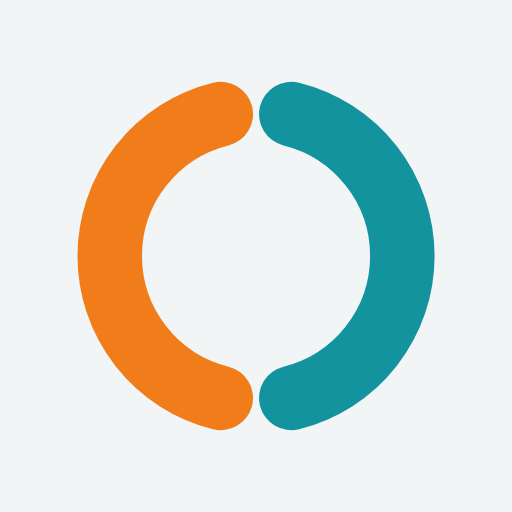
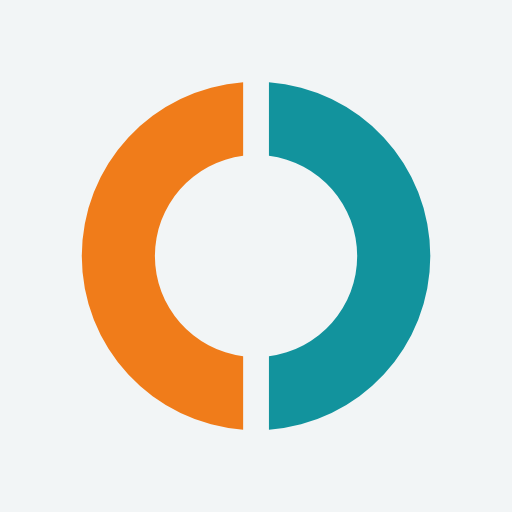
פידבק הבעלים (1–3): הלוגו האמיתי בכל האתר, השטח המת מתחת לטלפון, וכפתור המעבר הוסר מתוך הטלפון
- הלוגו: 26 מופעים בכל הדפים (כולל favicon, האייקונים ותמונת השיתוף) הוחלפו לגאומטריה של SplitOPainter
  מהאפליקציה — טבעת r=32, עובי 17, חתוכה בקו ישר ב-x=47/53 (קצוות שטוחים), במקום שתי קשתות עם קצוות מעוגלים.
- phone.css v7: כפתור המעבר והרמז יוצאים מהזרימה לפני "התחל הדגמה" (היו hidden אבל תפסו 170px), ונכנסים בפייד.
- demo.js v9: כפתור המעבר בין הממשקים הוסר משני הסרגלים העליונים — הוא כלי של הבעלים, לא חלק מהאפליקציה.
- אומת: שתי סדרות הבדיקה (0 שגיאות, 0 גלישות), מדידת הפריסה לפני/אחרי ההתחלה, אייקונים ותמונת שיתוף חדשים.

Changed region(s): [[0.125, 0.1562, 0.875, 0.8438]]

diff --git a/index.html b/index.html
@@ -25,7 +25,7 @@
   <link rel="preload" as="font" type="font/woff2" href="assets/fonts/fredoka-600-hebrew.woff2" crossorigin>
   <link rel="stylesheet" href="assets/fonts/fonts.css">
   <link rel="stylesheet" href="css/style.css?v=16">
-  <link rel="stylesheet" href="css/phone.css?v=6">
+  <link rel="stylesheet" href="css/phone.css?v=7">
   <link rel="canonical" href="https://fitopolis.co.il/">
 </head>
 <body>
@@ -97,7 +97,7 @@
 <header class="container topbar topbar-menu">
   <span class="logotype" aria-label="FITOPOLIS">
     <span class="fit">FIT</span>
-    <svg class="o-mark" viewBox="0 0 100 100" aria-hidden="true"><path d="M 41.8 17 A 34 34 0 0 0 41.8 83" fill="none" stroke="#F07C1A" stroke-width="14" stroke-linecap="round"/><path d="M 58.2 17 A 34 34 0 0 1 58.2 83" fill="none" stroke="#12939D" stroke-width="14" stroke-linecap="round"/></svg>
+    <svg class="o-mark" viewBox="0 0 100 100" aria-hidden="true"><path d="M47 9.61A40.5 40.5 0 0 0 47 90.39L47 73.31A23.5 23.5 0 0 1 47 26.69Z" fill="#F07C1A"/><path d="M53 9.61A40.5 40.5 0 0 1 53 90.39L53 73.31A23.5 23.5 0 0 0 53 26.69Z" fill="#12939D"/></svg>
     <span class="polis">POLIS</span>
   </span>
   <nav class="site-nav" aria-label="ניווט ראשי">
@@ -110,13 +110,13 @@
   <!-- ══ הפתיח ══ -->
   <section class="hero">
     <div class="ring-layer" data-depth="18" aria-hidden="true">
-      <span class="ring" style="left: 3%; top: -40px; transform: rotate(-14deg); opacity: 0.16;"><svg aria-hidden="true" class="drift-a" viewBox="0 0 100 100" style="width: 170px; height: 170px;"><path d="M 41.8 17 A 34 34 0 0 0 41.8 83" fill="none" stroke="#F07C1A" stroke-width="14" stroke-linecap="round"/><path d="M 58.2 17 A 34 34 0 0 1 58.2 83" fill="none" stroke="#12939D" stroke-width="14" stroke-linecap="round"/></svg></span>
+      <span class="ring" style="left: 3%; top: -40px; transform: rotate(-14deg); opacity: 0.16;"><svg aria-hidden="true" class="drift-a" viewBox="0 0 100 100" style="width: 170px; height: 170px;"><path d="M47 9.61A40.5 40.5 0 0 0 47 90.39L47 73.31A23.5 23.5 0 0 1 47 26.69Z" fill="#F07C1A"/><path d="M53 9.61A40.5 40.5 0 0 1 53 90.39L53 73.31A23.5 23.5 0 0 0 53 26.69Z" fill="#12939D"/></svg></span>
       <span class="blob drift-b" style="left: 44%; bottom: 30px; width: 54px; height: 54px; background: #F07C1A; opacity: 0.13;"></span>
       <span class="blob drift-c" style="left: 87%; top: 60px; width: 34px; height: 34px; background: #12939D; opacity: 0.15;"></span>
     </div>
     <div class="ring-layer" data-depth="40" aria-hidden="true">
-      <span class="ring" style="left: 38%; top: 90px; transform: rotate(22deg); opacity: 0.2;"><svg aria-hidden="true" class="drift-b" viewBox="0 0 100 100" style="width: 88px; height: 88px;"><path d="M 41.8 17 A 34 34 0 0 0 41.8 83" fill="none" stroke="#F07C1A" stroke-width="14" stroke-linecap="round"/><path d="M 58.2 17 A 34 34 0 0 1 58.2 83" fill="none" stroke="#12939D" stroke-width="14" stroke-linecap="round"/></svg></span>
-      <span class="ring" style="left: 82%; bottom: 70px; transform: rotate(-30deg); opacity: 0.18;"><svg aria-hidden="true" class="drift-c" viewBox="0 0 100 100" style="width: 64px; height: 64px;"><path d="M 41.8 17 A 34 34 0 0 0 41.8 83" fill="none" stroke="#F07C1A" stroke-width="14" stroke-linecap="round"/><path d="M 58.2 17 A 34 34 0 0 1 58.2 83" fill="none" stroke="#12939D" stroke-width="14" stroke-linecap="round"/></svg></span>
+      <span class="ring" style="left: 38%; top: 90px; transform: rotate(22deg); opacity: 0.2;"><svg aria-hidden="true" class="drift-b" viewBox="0 0 100 100" style="width: 88px; height: 88px;"><path d="M47 9.61A40.5 40.5 0 0 0 47 90.39L47 73.31A23.5 23.5 0 0 1 47 26.69Z" fill="#F07C1A"/><path d="M53 9.61A40.5 40.5 0 0 1 53 90.39L53 73.31A23.5 23.5 0 0 0 53 26.69Z" fill="#12939D"/></svg></span>
+      <span class="ring" style="left: 82%; bottom: 70px; transform: rotate(-30deg); opacity: 0.18;"><svg aria-hidden="true" class="drift-c" viewBox="0 0 100 100" style="width: 64px; height: 64px;"><path d="M47 9.61A40.5 40.5 0 0 0 47 90.39L47 73.31A23.5 23.5 0 0 1 47 26.69Z" fill="#F07C1A"/><path d="M53 9.61A40.5 40.5 0 0 1 53 90.39L53 73.31A23.5 23.5 0 0 0 53 26.69Z" fill="#12939D"/></svg></span>
     </div>
 
     <div class="container hero-inner">
@@ -166,7 +166,7 @@
         </div>
       </div>
       <div class="section-head scroll-reveal">
-        <svg class="section-mark" viewBox="0 0 100 100" aria-hidden="true"><path d="M 41.8 17 A 34 34 0 0 0 41.8 83" fill="none" stroke="#F07C1A" stroke-width="14" stroke-linecap="round"/><path d="M 58.2 17 A 34 34 0 0 1 58.2 83" fill="none" stroke="#12939D" stroke-width="14" stroke-linecap="round"/></svg>
+        <svg class="section-mark" viewBox="0 0 100 100" aria-hidden="true"><path d="M47 9.61A40.5 40.5 0 0 0 47 90.39L47 73.31A23.5 23.5 0 0 1 47 26.69Z" fill="#F07C1A"/><path d="M53 9.61A40.5 40.5 0 0 1 53 90.39L53 73.31A23.5 23.5 0 0 0 53 26.69Z" fill="#12939D"/></svg>
         <h2 class="section-title">המבנה המרכזי של <span dir="ltr">FITOPOLIS</span></h2>
         <p class="section-intro">לא רשימת יכולות — שלד. ארבעה דברים שכל השאר נבנה מהם.</p>
       </div>
@@ -236,7 +236,7 @@
   <section class="sides">
     <div class="container">
       <div class="section-head scroll-reveal">
-        <svg class="section-mark" viewBox="0 0 100 100" aria-hidden="true"><path d="M 41.8 17 A 34 34 0 0 0 41.8 83" fill="none" stroke="#F07C1A" stroke-width="14" stroke-linecap="round"/><path d="M 58.2 17 A 34 34 0 0 1 58.2 83" fill="none" stroke="#12939D" stroke-width="14" stroke-linecap="round"/></svg>
+        <svg class="section-mark" viewBox="0 0 100 100" aria-hidden="true"><path d="M47 9.61A40.5 40.5 0 0 0 47 90.39L47 73.31A23.5 23.5 0 0 1 47 26.69Z" fill="#F07C1A"/><path d="M53 9.61A40.5 40.5 0 0 1 53 90.39L53 73.31A23.5 23.5 0 0 0 53 26.69Z" fill="#12939D"/></svg>
         <h2 class="section-title">סנכרון מלא בין הממשקים</h2>
       </div>
       <p class="sides-intro scroll-reveal">אין כאן שני מוצרים — יש מערכת אחת עם שני צדדים שקוראים מאותו מידע: מה שנעשה בצד אחד מופיע בשני. ושני הטלפונים בדף הזה מחוברים באמת: עדכן כאן משקל, ובטלפון של המאמן למעלה דניאל יורד מ"דורשים טיפול".</p>
@@ -278,7 +278,7 @@
 <footer class="closing" id="closing">
   <div class="container">
     <div class="closing-inner">
-      <svg class="breathe" viewBox="0 0 100 100" style="width: 56px; height: 56px;" aria-hidden="true"><path d="M 41.8 17 A 34 34 0 0 0 41.8 83" fill="none" stroke="#F07C1A" stroke-width="14" stroke-linecap="round"/><path d="M 58.2 17 A 34 34 0 0 1 58.2 83" fill="none" stroke="#12939D" stroke-width="14" stroke-linecap="round"/></svg>
+      <svg class="breathe" viewBox="0 0 100 100" style="width: 56px; height: 56px;" aria-hidden="true"><path d="M47 9.61A40.5 40.5 0 0 0 47 90.39L47 73.31A23.5 23.5 0 0 1 47 26.69Z" fill="#F07C1A"/><path d="M53 9.61A40.5 40.5 0 0 1 53 90.39L53 73.31A23.5 23.5 0 0 0 53 26.69Z" fill="#12939D"/></svg>
       <h2>בחנויות — בקרוב. המאמנים הראשונים נכנסים לפני כולם.</h2>
       <p class="sub">רוצים להיות מהמאמנים הראשונים? דברו איתי — יאיר.</p>
       <a class="btn btn-ghost" href="mailto:fitopolis.contact@gmail.com">צרו קשר</a>
@@ -286,7 +286,7 @@
     <div class="footer-bar">
       <span class="logotype" aria-label="FITOPOLIS">
         <span class="fit">FIT</span>
-        <svg class="o-mark" viewBox="0 0 100 100" aria-hidden="true"><path d="M 41.8 17 A 34 34 0 0 0 41.8 83" fill="none" stroke="#F07C1A" stroke-width="14" stroke-linecap="round"/><path d="M 58.2 17 A 34 34 0 0 1 58.2 83" fill="none" stroke="#12939D" stroke-width="14" stroke-linecap="round"/></svg>
+        <svg class="o-mark" viewBox="0 0 100 100" aria-hidden="true"><path d="M47 9.61A40.5 40.5 0 0 0 47 90.39L47 73.31A23.5 23.5 0 0 1 47 26.69Z" fill="#F07C1A"/><path d="M53 9.61A40.5 40.5 0 0 1 53 90.39L53 73.31A23.5 23.5 0 0 0 53 26.69Z" fill="#12939D"/></svg>
         <span class="polis">POLIS</span>
       </span>
       <div class="links">
@@ -299,6 +299,6 @@
 </footer>
 
 <script src="js/main.js?v=7"></script>
-<script src="js/demo.js?v=8"></script>
+<script src="js/demo.js?v=9"></script>
 </body>
 </html>

diff --git a/js/demo.js b/js/demo.js
@@ -222,7 +222,6 @@
       if (ph.screen === 'profile' || ph.screen === 'thread') return '';        // שכבת-על מסך מלא — בלי סרגל עליון (home_screen showMain=false)
       return '<span class="k-wm" dir="ltr">' + wordmark() + '</span>' +
         '<button class="k-tbtn" aria-label="התראות">' + icon('bell', 'bi v-coach') + (unreadTotal() || requestsCount() ? '<i class="k-dot"></i>' : '') + '</button>' +
-        '<button class="k-tbtn" aria-label="עבור לתצוגת מתאמן" data-act="flip">' + icon('swap', 'bi v-system') + '</button>' +
         (ph.screen === 'meetings' ? '<button class="k-tbtn" aria-label="הגדרות">' + icon('settings', 'bi v-system') + '</button>' : '') +
         '<span class="k-me ring-coach" aria-hidden="true"><i>יו</i></span>';
     },
@@ -378,7 +377,6 @@
       if (ph.screen === 'chat' || ph.screen === 'workout') return '';
       return '<span class="k-wm" dir="ltr">' + wordmark() + '</span>' +
         '<button class="k-tbtn" aria-label="התראות">' + icon('bell', 'bi v-trainee') + '</button>' +
-        '<button class="k-tbtn" aria-label="עבור לתצוגת מאמן" data-act="flip">' + icon('swap', 'bi v-system') + '</button>' +
         (/nutrition|workouts|meetings/.test(ph.screen) ? '<button class="k-tbtn" aria-label="הגדרות">' + icon('settings', 'bi v-system') + '</button>' : '') +
         '<span class="k-me ring-trainee" aria-hidden="true"><i class="av-blue">דכ</i></span>';
     },
@@ -482,7 +480,7 @@
     return '<div class="k-bub ' + (mine ? 'mine' : 'theirs') + ' from-' + m.from + '"><span>' + esc(m.text) + '</span><time>' + m.time + '</time></div>';
   }
   function wordmark() {
-    return '<b class="fit">FIT</b><svg class="o" viewBox="0 0 100 100" aria-hidden="true"><path d="M 41.8 17 A 34 34 0 0 0 41.8 83" fill="none" stroke="#F07C1A" stroke-width="14" stroke-linecap="round"/><path d="M 58.2 17 A 34 34 0 0 1 58.2 83" fill="none" stroke="#12939D" stroke-width="14" stroke-linecap="round"/></svg><b class="polis">POLIS</b>';
+    return '<b class="fit">FIT</b><svg class="o" viewBox="0 0 100 100" aria-hidden="true"><path d="M47 9.61A40.5 40.5 0 0 0 47 90.39L47 73.31A23.5 23.5 0 0 1 47 26.69Z" fill="#F07C1A"/><path d="M53 9.61A40.5 40.5 0 0 1 53 90.39L53 73.31A23.5 23.5 0 0 0 53 26.69Z" fill="#12939D"/></svg><b class="polis">POLIS</b>';
   }
   function navHtml(app, ph) {
     return app.tabs.map(function (t) {
@@ -733,7 +731,7 @@
       '<div class="dp-topbar"></div><div class="dp-stage"></div><div class="dp-navwrap"><div class="dp-nav" role="tablist"></div></div>' +
       '<div class="dp-toast" role="status" aria-live="polite"></div><div class="dp-sheet" hidden></div><div class="dp-sheen" aria-hidden="true"></div>' +
       '<div class="dp-cover"><span class="wm" dir="ltr">' + wordmark() + '</span><p>הדגמה חיה של הממשק — כל כפתור לחיץ</p><button class="dp-start" data-act="start">התחל הדגמה</button></div></div>' +
-      edges() + '<div class="dp-back" aria-hidden="true"><span class="dp-cam"><i class="l l1"></i><i class="l l2"></i><i class="l l3"></i><b class="flash"></b><u class="lidar"></u><s class="mic"></s></span><svg viewBox="0 0 100 100"><path d="M 41.8 17 A 34 34 0 0 0 41.8 83" fill="none" stroke="#F07C1A" stroke-width="14" stroke-linecap="round"/><path d="M 58.2 17 A 34 34 0 0 1 58.2 83" fill="none" stroke="#12939D" stroke-width="14" stroke-linecap="round"/></svg><span class="brand">FITOPOLIS</span></div>';
+      edges() + '<div class="dp-back" aria-hidden="true"><span class="dp-cam"><i class="l l1"></i><i class="l l2"></i><i class="l l3"></i><b class="flash"></b><u class="lidar"></u><s class="mic"></s></span><svg viewBox="0 0 100 100"><path d="M47 9.61A40.5 40.5 0 0 0 47 90.39L47 73.31A23.5 23.5 0 0 1 47 26.69Z" fill="#F07C1A"/><path d="M53 9.61A40.5 40.5 0 0 1 53 90.39L53 73.31A23.5 23.5 0 0 0 53 26.69Z" fill="#12939D"/></svg><span class="brand">FITOPOLIS</span></div>';
     var ground = document.createElement('div'); ground.className = 'dp-ground'; ground.setAttribute('aria-hidden', 'true');
     root.parentNode.insertBefore(ground, root);
     var placeGround = function () { ground.style.top = (root.offsetTop + root.offsetHeight - 12) + 'px'; };

diff --git a/404.html b/404.html
@@ -20,7 +20,7 @@
 <header class="container topbar topbar-menu">
   <span class="logotype" aria-label="FITOPOLIS">
     <span class="fit">FIT</span>
-    <svg class="o-mark" viewBox="0 0 100 100" aria-hidden="true"><path d="M 41.8 17 A 34 34 0 0 0 41.8 83" fill="none" stroke="#F07C1A" stroke-width="14" stroke-linecap="round"/><path d="M 58.2 17 A 34 34 0 0 1 58.2 83" fill="none" stroke="#12939D" stroke-width="14" stroke-linecap="round"/></svg>
+    <svg class="o-mark" viewBox="0 0 100 100" aria-hidden="true"><path d="M47 9.61A40.5 40.5 0 0 0 47 90.39L47 73.31A23.5 23.5 0 0 1 47 26.69Z" fill="#F07C1A"/><path d="M53 9.61A40.5 40.5 0 0 1 53 90.39L53 73.31A23.5 23.5 0 0 0 53 26.69Z" fill="#12939D"/></svg>
     <span class="polis">POLIS</span>
   </span>
   <nav class="site-nav" aria-label="ניווט ראשי">
@@ -30,7 +30,7 @@
 </header>
 
 <main id="main" tabindex="-1" class="page-main" style="align-items: center; text-align: center; justify-content: center; flex: 1;">
-  <svg class="breathe reveal" viewBox="0 0 100 100" style="width: 72px; height: 72px;" aria-hidden="true"><path d="M 41.8 17 A 34 34 0 0 0 41.8 83" fill="none" stroke="#F07C1A" stroke-width="14" stroke-linecap="round"/><path d="M 58.2 17 A 34 34 0 0 1 58.2 83" fill="none" stroke="#12939D" stroke-width="14" stroke-linecap="round"/></svg>
+  <svg class="breathe reveal" viewBox="0 0 100 100" style="width: 72px; height: 72px;" aria-hidden="true"><path d="M47 9.61A40.5 40.5 0 0 0 47 90.39L47 73.31A23.5 23.5 0 0 1 47 26.69Z" fill="#F07C1A"/><path d="M53 9.61A40.5 40.5 0 0 1 53 90.39L53 73.31A23.5 23.5 0 0 0 53 26.69Z" fill="#12939D"/></svg>
   <h1 class="reveal d1">הדף הזה לא נמצא</h1>
   <p class="lead reveal d2">כנראה הקישור השתנה או שהוקלד לא נכון.</p>
   <a class="btn btn-primary reveal d3" href="/">חזרה לדף הבית</a>
@@ -39,7 +39,7 @@
 <footer class="closing inner-footer has-closing">
   <div class="container">
     <div class="closing-inner">
-      <svg class="breathe" viewBox="0 0 100 100" style="width: 56px; height: 56px;" aria-hidden="true"><path d="M 41.8 17 A 34 34 0 0 0 41.8 83" fill="none" stroke="#F07C1A" stroke-width="14" stroke-linecap="round"/><path d="M 58.2 17 A 34 34 0 0 1 58.2 83" fill="none" stroke="#12939D" stroke-width="14" stroke-linecap="round"/></svg>
+      <svg class="breathe" viewBox="0 0 100 100" style="width: 56px; height: 56px;" aria-hidden="true"><path d="M47 9.61A40.5 40.5 0 0 0 47 90.39L47 73.31A23.5 23.5 0 0 1 47 26.69Z" fill="#F07C1A"/><path d="M53 9.61A40.5 40.5 0 0 1 53 90.39L53 73.31A23.5 23.5 0 0 0 53 26.69Z" fill="#12939D"/></svg>
       <h2>פיטופוליס יוצא בקרוב.</h2>
       <p class="sub">רוצים להיות מהמאמנים הראשונים? דברו איתי — יאיר.</p>
       <a class="btn btn-ghost" href="mailto:fitopolis.contact@gmail.com">צרו קשר</a>
@@ -47,7 +47,7 @@
     <div class="footer-bar">
       <span class="logotype" aria-label="FITOPOLIS">
         <span class="fit">FIT</span>
-        <svg class="o-mark" viewBox="0 0 100 100" aria-hidden="true"><path d="M 41.8 17 A 34 34 0 0 0 41.8 83" fill="none" stroke="#F07C1A" stroke-width="14" stroke-linecap="round"/><path d="M 58.2 17 A 34 34 0 0 1 58.2 83" fill="none" stroke="#12939D" stroke-width="14" stroke-linecap="round"/></svg>
+        <svg class="o-mark" viewBox="0 0 100 100" aria-hidden="true"><path d="M47 9.61A40.5 40.5 0 0 0 47 90.39L47 73.31A23.5 23.5 0 0 1 47 26.69Z" fill="#F07C1A"/><path d="M53 9.61A40.5 40.5 0 0 1 53 90.39L53 73.31A23.5 23.5 0 0 0 53 26.69Z" fill="#12939D"/></svg>
         <span class="polis">POLIS</span>
       </span>
       <div class="links">

diff --git a/accessibility.html b/accessibility.html
@@ -21,7 +21,7 @@
 <header class="container topbar topbar-menu">
   <span class="logotype" aria-label="FITOPOLIS">
     <span class="fit">FIT</span>
-    <svg aria-hidden="true" class="o-mark" viewBox="0 0 100 100"><path d="M 41.8 17 A 34 34 0 0 0 41.8 83" fill="none" stroke="#F07C1A" stroke-width="14" stroke-linecap="round"/><path d="M 58.2 17 A 34 34 0 0 1 58.2 83" fill="none" stroke="#12939D" stroke-width="14" stroke-linecap="round"/></svg>
+    <svg aria-hidden="true" class="o-mark" viewBox="0 0 100 100"><path d="M47 9.61A40.5 40.5 0 0 0 47 90.39L47 73.31A23.5 23.5 0 0 1 47 26.69Z" fill="#F07C1A"/><path d="M53 9.61A40.5 40.5 0 0 1 53 90.39L53 73.31A23.5 23.5 0 0 0 53 26.69Z" fill="#12939D"/></svg>
     <span class="polis">POLIS</span>
   </span>
   <nav class="site-nav" aria-label="ניווט ראשי">
@@ -87,7 +87,7 @@
 <footer class="closing inner-footer has-closing">
   <div class="container">
     <div class="closing-inner">
-      <svg class="breathe" viewBox="0 0 100 100" style="width: 56px; height: 56px;" aria-hidden="true"><path d="M 41.8 17 A 34 34 0 0 0 41.8 83" fill="none" stroke="#F07C1A" stroke-width="14" stroke-linecap="round"/><path d="M 58.2 17 A 34 34 0 0 1 58.2 83" fill="none" stroke="#12939D" stroke-width="14" stroke-linecap="round"/></svg>
+      <svg class="breathe" viewBox="0 0 100 100" style="width: 56px; height: 56px;" aria-hidden="true"><path d="M47 9.61A40.5 40.5 0 0 0 47 90.39L47 73.31A23.5 23.5 0 0 1 47 26.69Z" fill="#F07C1A"/><path d="M53 9.61A40.5 40.5 0 0 1 53 90.39L53 73.31A23.5 23.5 0 0 0 53 26.69Z" fill="#12939D"/></svg>
       <h2>פיטופוליס יוצא בקרוב.</h2>
       <p class="sub">רוצים להיות מהמאמנים הראשונים? דברו איתי — יאיר.</p>
       <a class="btn btn-ghost" href="mailto:fitopolis.contact@gmail.com">צרו קשר</a>
@@ -95,7 +95,7 @@
     <div class="footer-bar">
       <span class="logotype" aria-label="FITOPOLIS">
         <span class="fit">FIT</span>
-        <svg aria-hidden="true" class="o-mark" viewBox="0 0 100 100"><path d="M 41.8 17 A 34 34 0 0 0 41.8 83" fill="none" stroke="#F07C1A" stroke-width="14" stroke-linecap="round"/><path d="M 58.2 17 A 34 34 0 0 1 58.2 83" fill="none" stroke="#12939D" stroke-width="14" stroke-linecap="round"/></svg>
+        <svg aria-hidden="true" class="o-mark" viewBox="0 0 100 100"><path d="M47 9.61A40.5 40.5 0 0 0 47 90.39L47 73.31A23.5 23.5 0 0 1 47 26.69Z" fill="#F07C1A"/><path d="M53 9.61A40.5 40.5 0 0 1 53 90.39L53 73.31A23.5 23.5 0 0 0 53 26.69Z" fill="#12939D"/></svg>
         <span class="polis">POLIS</span>
       </span>
       <div class="links">

diff --git a/support.html b/support.html
@@ -21,7 +21,7 @@
 <header class="container topbar topbar-menu">
   <span class="logotype" aria-label="FITOPOLIS">
     <span class="fit">FIT</span>
-    <svg class="o-mark" viewBox="0 0 100 100" aria-hidden="true"><path d="M 41.8 17 A 34 34 0 0 0 41.8 83" fill="none" stroke="#F07C1A" stroke-width="14" stroke-linecap="round"/><path d="M 58.2 17 A 34 34 0 0 1 58.2 83" fill="none" stroke="#12939D" stroke-width="14" stroke-linecap="round"/></svg>
+    <svg class="o-mark" viewBox="0 0 100 100" aria-hidden="true"><path d="M47 9.61A40.5 40.5 0 0 0 47 90.39L47 73.31A23.5 23.5 0 0 1 47 26.69Z" fill="#F07C1A"/><path d="M53 9.61A40.5 40.5 0 0 1 53 90.39L53 73.31A23.5 23.5 0 0 0 53 26.69Z" fill="#12939D"/></svg>
     <span class="polis">POLIS</span>
   </span>
   <nav class="site-nav" aria-label="ניווט ראשי">
@@ -54,7 +54,7 @@
 <footer class="closing inner-footer has-closing">
   <div class="container">
     <div class="closing-inner">
-      <svg class="breathe" viewBox="0 0 100 100" style="width: 56px; height: 56px;" aria-hidden="true"><path d="M 41.8 17 A 34 34 0 0 0 41.8 83" fill="none" stroke="#F07C1A" stroke-width="14" stroke-linecap="round"/><path d="M 58.2 17 A 34 34 0 0 1 58.2 83" fill="none" stroke="#12939D" stroke-width="14" stroke-linecap="round"/></svg>
+      <svg class="breathe" viewBox="0 0 100 100" style="width: 56px; height: 56px;" aria-hidden="true"><path d="M47 9.61A40.5 40.5 0 0 0 47 90.39L47 73.31A23.5 23.5 0 0 1 47 26.69Z" fill="#F07C1A"/><path d="M53 9.61A40.5 40.5 0 0 1 53 90.39L53 73.31A23.5 23.5 0 0 0 53 26.69Z" fill="#12939D"/></svg>
       <h2>פיטופוליס יוצא בקרוב.</h2>
       <p class="sub">רוצים להיות מהמאמנים הראשונים? דברו איתי — יאיר.</p>
       <a class="btn btn-ghost" href="mailto:fitopolis.contact@gmail.com">צרו קשר</a>
@@ -62,7 +62,7 @@
     <div class="footer-bar">
       <span class="logotype" aria-label="FITOPOLIS">
         <span class="fit">FIT</span>
-        <svg class="o-mark" viewBox="0 0 100 100" aria-hidden="true"><path d="M 41.8 17 A 34 34 0 0 0 41.8 83" fill="none" stroke="#F07C1A" stroke-width="14" stroke-linecap="round"/><path d="M 58.2 17 A 34 34 0 0 1 58.2 83" fill="none" stroke="#12939D" stroke-width="14" stroke-linecap="round"/></svg>
+        <svg class="o-mark" viewBox="0 0 100 100" aria-hidden="true"><path d="M47 9.61A40.5 40.5 0 0 0 47 90.39L47 73.31A23.5 23.5 0 0 1 47 26.69Z" fill="#F07C1A"/><path d="M53 9.61A40.5 40.5 0 0 1 53 90.39L53 73.31A23.5 23.5 0 0 0 53 26.69Z" fill="#12939D"/></svg>
         <span class="polis">POLIS</span>
       </span>
       <div class="links">

diff --git a/invite/index.html b/invite/index.html
@@ -27,7 +27,7 @@
 <header class="container topbar">
   <a href="/" class="logotype" aria-label="FITOPOLIS">
     <span class="fit">FIT</span>
-    <svg class="o-mark" viewBox="0 0 100 100" aria-hidden="true"><path d="M 41.8 17 A 34 34 0 0 0 41.8 83" fill="none" stroke="#F07C1A" stroke-width="14" stroke-linecap="round"/><path d="M 58.2 17 A 34 34 0 0 1 58.2 83" fill="none" stroke="#12939D" stroke-width="14" stroke-linecap="round"/></svg>
+    <svg class="o-mark" viewBox="0 0 100 100" aria-hidden="true"><path d="M47 9.61A40.5 40.5 0 0 0 47 90.39L47 73.31A23.5 23.5 0 0 1 47 26.69Z" fill="#F07C1A"/><path d="M53 9.61A40.5 40.5 0 0 1 53 90.39L53 73.31A23.5 23.5 0 0 0 53 26.69Z" fill="#12939D"/></svg>
     <span class="polis">POLIS</span>
   </a>
   <nav class="topbar-nav">
@@ -37,7 +37,7 @@
 
 <main id="main" tabindex="-1" class="page-main invite-main">
   <span class="invite-mark" aria-hidden="true">
-    <svg aria-hidden="true" viewBox="0 0 100 100"><path d="M 41.8 17 A 34 34 0 0 0 41.8 83" fill="none" stroke="#F07C1A" stroke-width="14" stroke-linecap="round"/><path d="M 58.2 17 A 34 34 0 0 1 58.2 83" fill="none" stroke="#12939D" stroke-width="14" stroke-linecap="round"/></svg>
+    <svg aria-hidden="true" viewBox="0 0 100 100"><path d="M47 9.61A40.5 40.5 0 0 0 47 90.39L47 73.31A23.5 23.5 0 0 1 47 26.69Z" fill="#F07C1A"/><path d="M53 9.61A40.5 40.5 0 0 1 53 90.39L53 73.31A23.5 23.5 0 0 0 53 26.69Z" fill="#12939D"/></svg>
   </span>
 
   <h1>הוזמנתם לפיטופוליס</h1>
@@ -73,7 +73,7 @@
     <div class="footer-bar">
       <span class="logotype" aria-label="FITOPOLIS">
         <span class="fit">FIT</span>
-        <svg class="o-mark" viewBox="0 0 100 100" aria-hidden="true"><path d="M 41.8 17 A 34 34 0 0 0 41.8 83" fill="none" stroke="#F07C1A" stroke-width="14" stroke-linecap="round"/><path d="M 58.2 17 A 34 34 0 0 1 58.2 83" fill="none" stroke="#12939D" stroke-width="14" stroke-linecap="round"/></svg>
+        <svg class="o-mark" viewBox="0 0 100 100" aria-hidden="true"><path d="M47 9.61A40.5 40.5 0 0 0 47 90.39L47 73.31A23.5 23.5 0 0 1 47 26.69Z" fill="#F07C1A"/><path d="M53 9.61A40.5 40.5 0 0 1 53 90.39L53 73.31A23.5 23.5 0 0 0 53 26.69Z" fill="#12939D"/></svg>
         <span class="polis">POLIS</span>
       </span>
       <div class="links">

diff --git a/_og.html b/_og.html
@@ -17,7 +17,7 @@ f.onload=()=>{const d=f.contentDocument, s=d.createElement('style');
   .og-mark .fit{color:#12939D}.og-mark .polis{color:#F07C1A}.og-mark svg{width:.98em;height:.98em}
  `;
  d.head.appendChild(s);
- const m=d.createElement('div'); m.className='og-mark'; m.innerHTML='<b class="fit">FIT</b><svg viewBox="0 0 100 100"><path d="M 41.8 17 A 34 34 0 0 0 41.8 83" fill="none" stroke="#F07C1A" stroke-width="14" stroke-linecap="round"/><path d="M 58.2 17 A 34 34 0 0 1 58.2 83" fill="none" stroke="#12939D" stroke-width="14" stroke-linecap="round"/></svg><b class="polis">POLIS</b>';
+ const m=d.createElement('div'); m.className='og-mark'; m.innerHTML='<b class="fit">FIT</b><svg viewBox="0 0 100 100"><path d="M47 9.61A40.5 40.5 0 0 0 47 90.39L47 73.31A23.5 23.5 0 0 1 47 26.69Z" fill="#F07C1A"/><path d="M53 9.61A40.5 40.5 0 0 1 53 90.39L53 73.31A23.5 23.5 0 0 0 53 26.69Z" fill="#12939D"/></svg><b class="polis">POLIS</b>';
  d.querySelector('.hero').appendChild(m);
  d.querySelectorAll('.scroll-reveal').forEach(e=>e.classList.add('is-visible'));
  d.querySelectorAll('.dp [data-act="start"]').forEach(b=>b.click()); d.querySelectorAll('.dp').forEach(el=>el.classList.remove('is-idle'));

diff --git a/css/phone.css b/css/phone.css
@@ -605,6 +605,8 @@ p.k-center { display: block; margin: 0; }
 @media (prefers-reduced-motion: reduce) { .dp-cover { transition: none; } }
 /* ── לפני "התחל הדגמה": כפתור המעבר והרמז מוסתרים; הבר וה-FAB בשכבה משלהם כדי שלא יצוירו מחדש בכל תזוזה ── */
 .flip-btn, .demo-hint { transition: opacity 0.35s ease, visibility 0.35s; }
-.dp-wrap.is-idle .flip-btn, .dp-wrap.is-idle .demo-hint { opacity: 0; visibility: hidden; pointer-events: none; }
+.dp-wrap.is-idle .flip-btn, .dp-wrap.is-idle .demo-hint { display: none; }   /* יוצאים מהזרימה, אחרת נשאר שטח מת (ורווח ה-flex) מתחת לטלפון לפני שההדגמה מתחילה */
+.dp-wrap:not(.is-idle) .flip-btn, .dp-wrap:not(.is-idle) .demo-hint { animation: dp-appear 0.35s ease both; }
+@keyframes dp-appear { from { opacity: 0; transform: translateY(-4px); } to { opacity: 1; transform: none; } }
 .dp-nav { will-change: clip-path, transform; }
 .dp-fab { will-change: transform; }

diff --git a/_icon.html b/_icon.html
@@ -2,5 +2,5 @@
 html,body{margin:0;background:#F2F5F6;overflow:hidden}
 .wrap{position:fixed;left:0;top:0;display:flex;align-items:center;justify-content:center;background:#F2F5F6}
 svg{width:84%;height:84%}
-</style></head><body><div class="wrap" id="w"><svg viewBox="0 0 100 100"><path d="M 41.8 17 A 34 34 0 0 0 41.8 83" fill="none" stroke="#F07C1A" stroke-width="15" stroke-linecap="round"/><path d="M 58.2 17 A 34 34 0 0 1 58.2 83" fill="none" stroke="#12939D" stroke-width="15" stroke-linecap="round"/></svg></div>
+</style></head><body><div class="wrap" id="w"><svg viewBox="0 0 100 100"><path d="M47 9.61A40.5 40.5 0 0 0 47 90.39L47 73.31A23.5 23.5 0 0 1 47 26.69Z" fill="#F07C1A"/><path d="M53 9.61A40.5 40.5 0 0 1 53 90.39L53 73.31A23.5 23.5 0 0 0 53 26.69Z" fill="#12939D"/></svg></div>
 <script>const n=+new URLSearchParams(location.search).get('n')||512;const w=document.getElementById('w');w.style.width=n+'px';w.style.height=n+'px';</script></body></html>
